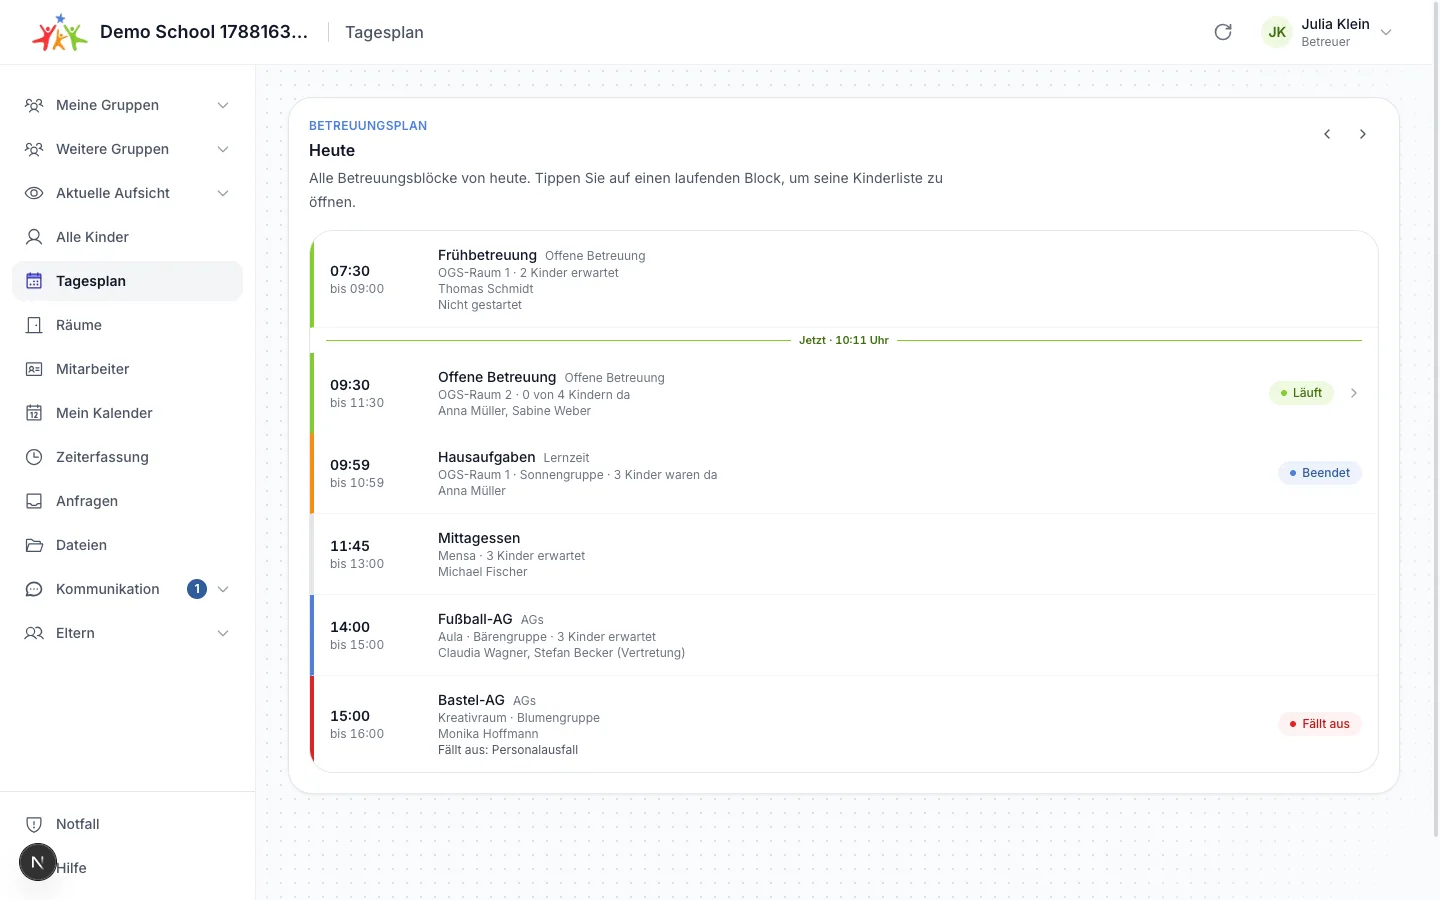
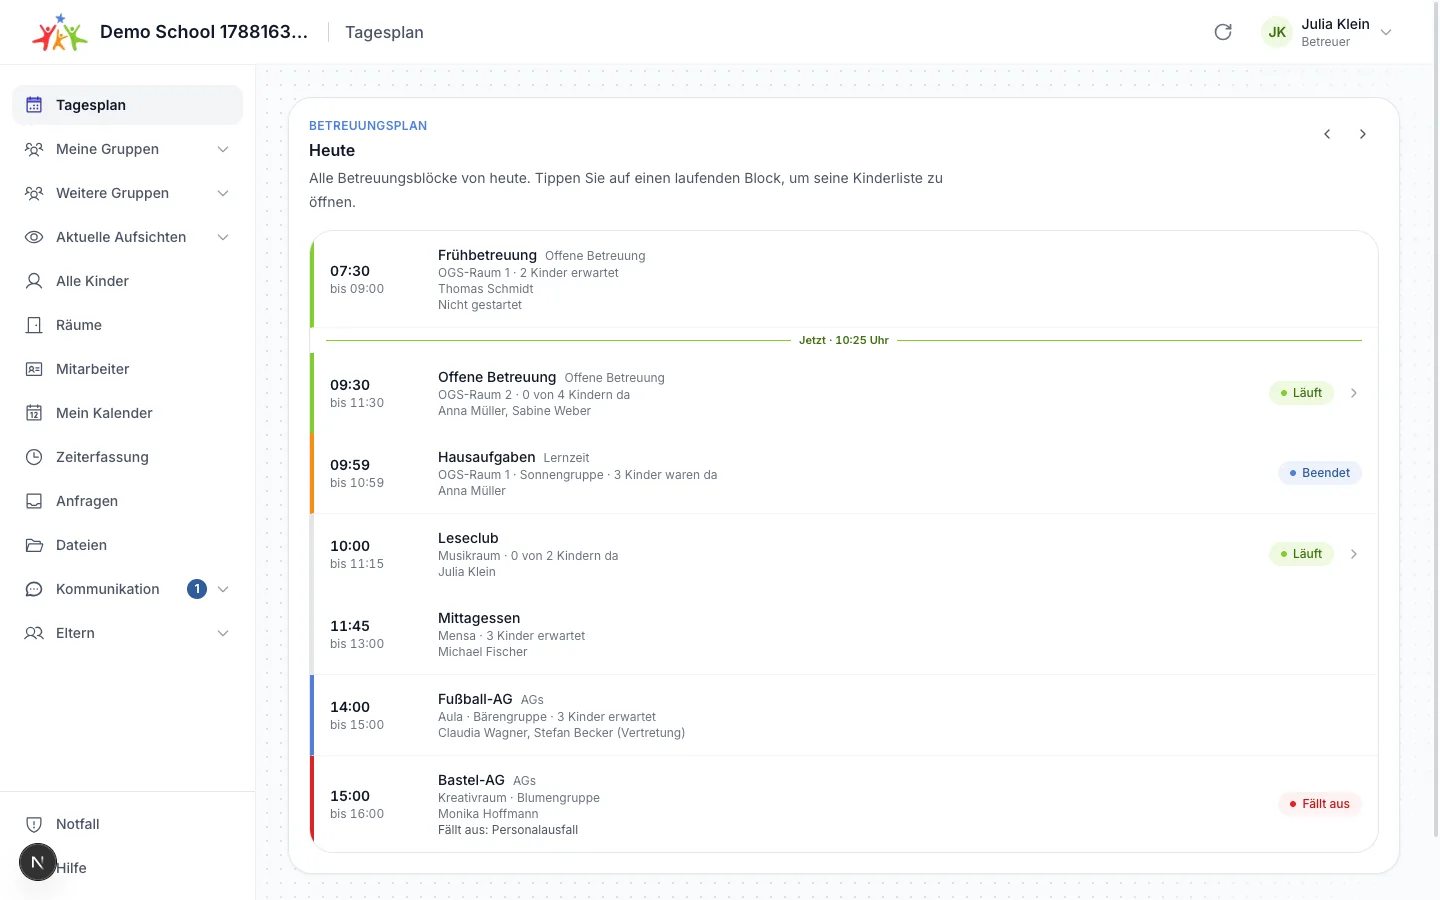
fix(tagesplan): als Startseite verankern statt als Menüpunkt in der Mitte
Der Tagesplan ist die Standardseite der Betreuungskräfte (#2383) — die
Navigation behandelt ihn jetzt auch so, statt ihn als weiteren Eintrag
in der Mitte zu führen:

- Seitenleiste: ganz oben, an der Stelle, an der Admins ihr Home haben.
- Mobile Navigation: erster Reiter der unteren Leiste statt eines
  Eintrags im Mehr-Menü (der Drawer-Eintrag entfällt dafür).
- Logo/Home-Link der Kopfzeile führt Betreuungskräfte auf den Tagesplan
  (gleiche Regel wie der Login-Redirect: detailed-Modus + aktivierter
  Betreuungsplan; Doppelrollen folgen wie beim Redirect dem
  Betreuer-Fluss, Admin-only behält /dashboard).

Nebenbefund aus der Verifikation: solange die Session lädt, fetcht
useSWRAuth nicht und isLoading bleibt false — die Seite zeigte dann
fälschlich den Leer-Zustand. Der Leer-Zustand erscheint jetzt nur noch
nach tatsächlich geladenen Daten, davor bleibt das Skeleton stehen.

Guide-Schritt und Screenshot entsprechend aktualisiert.

diff --git a/frontend/src/components/dashboard/mobile-bottom-nav.tsx b/frontend/src/components/dashboard/mobile-bottom-nav.tsx
@@ -169,6 +169,16 @@ const ADMIN_MAIN_ITEMS: NavItem[] = [
 
 const STAFF_MAIN_ITEMS: NavItem[] = [
   {
+    // Tagesplan (#2383): die Standardseite der Betreuungskräfte, deshalb der
+    // erste Tab. Gating (binary-Modus, timetable.enabled) unten in
+    // filteredMainItemsByMode.
+    href: "/betreuungsplan/tag",
+    label: "Tagesplan",
+    iconKey: "betreuungsplan",
+    concept: "carePlan",
+    alwaysShow: true,
+  },
+  {
     href: "/ogs-groups",
     label: "Gruppe",
     iconKey: "group",
@@ -335,17 +345,6 @@ const additionalNavItems: AdditionalNavItem[] = [
     iconKey: "group",
     concept: "groups",
     alwaysShow: true,
-  },
-  {
-    // Tages-Betreuungsplan (#2383): Einstieg der Betreuungskräfte in den
-    // laufenden Tag. Gating unten in filteredAdditionalItems (binary-Modus,
-    // timetable.enabled); Admins haben den vollen Betreuungsplan.
-    href: "/betreuungsplan/tag",
-    label: "Tagesplan",
-    iconKey: "betreuungsplan",
-    concept: "carePlan",
-    alwaysShow: true,
-    hideForAdmin: true,
   },
   {
     href: "/activities",
@@ -680,21 +679,19 @@ export function MobileBottomNav({ className = "" }: MobileBottomNavProps) {
         userHasEffectiveAdminScope) &&
       // Bei offener Betreuung gibt es keine "meine Gruppe" — der
       // gruppenbasierte Einstieg entfällt (#1544).
-      !(openCareGroupMode && item.href === "/ogs-groups"),
+      !(openCareGroupMode && item.href === "/ogs-groups") &&
+      // Tagesplan (#2383): nur im detaillierten Modus und nur an Schulen mit
+      // aktiviertem Betreuungsplan (Flag vom Tenant-Resolve, ohne config:read).
+      !(
+        item.href === "/betreuungsplan/tag" &&
+        (presenceMode === "binary" || !tagesplanEnabled)
+      ),
   );
 
   const filteredAdditionalItems = additionalNavItems.filter((item) => {
     // Anfragen (#2429): geteilte Regel für beide Reiter, siehe
     // change-request-access.
     if (item.href === "/anfragen") return canOpenRequestsPage(session);
-    // Tagesplan (#2383): nur im detaillierten Modus und nur an Schulen mit
-    // aktiviertem Betreuungsplan (Flag vom Tenant-Resolve, ohne config:read).
-    if (
-      item.href === "/betreuungsplan/tag" &&
-      (presenceMode === "binary" || !tagesplanEnabled)
-    ) {
-      return false;
-    }
     if (
       item.href === "/ogs-groups" &&
       !userIsCaregiver &&

diff --git a/frontend/src/lib/shell-auth-context.tsx b/frontend/src/lib/shell-auth-context.tsx
@@ -9,6 +9,8 @@ import { schoolAbsoluteUrl, schoolPath } from "~/lib/school-url";
 import { clearSessionCache, DELIBERATE_LOGOUT_KEY } from "~/lib/session-cache";
 import { createLogger } from "~/lib/logger";
 import { unsubscribePushSilently } from "~/lib/push-api";
+import { isCaregiver } from "~/lib/auth-utils";
+import { usePresenceMode, useTimetableEnabled } from "~/lib/tenant-context";
 
 const logger = createLogger({ component: "ShellAuthContext" });
 
@@ -58,6 +60,15 @@ export function TeacherShellProvider({
 }) {
   const { data: session, status: sessionStatus } = useSession();
   const { profile } = useProfile();
+  const presenceMode = usePresenceMode();
+  const timetableEnabled = useTimetableEnabled();
+  // Home der Betreuungskräfte ist der Tagesplan (#2383) — dieselbe Regel wie
+  // der Login-Redirect. Admins (und Schulen ohne Betreuungsplan bzw. im
+  // binären Modus) behalten /dashboard als Logo-Ziel.
+  const homeUrl =
+    isCaregiver(session) && presenceMode !== "binary" && timetableEnabled
+      ? "/betreuungsplan/tag"
+      : "/dashboard";
 
   const value = useMemo<ShellAuthContextType>(() => {
     const user: ShellUser | null = session?.user
@@ -118,10 +129,10 @@ export function TeacherShellProvider({
         window.location.href = "/";
       },
       mode: "teacher" as const,
-      homeUrl: "/dashboard",
+      homeUrl,
       profileUrl: "/profile",
     };
-  }, [session, sessionStatus, profile]);
+  }, [session, sessionStatus, profile, homeUrl]);
 
   return (
     <ShellAuthContext.Provider value={value}>

diff --git a/frontend/src/components/dashboard/sidebar.tsx b/frontend/src/components/dashboard/sidebar.tsx
@@ -857,11 +857,12 @@ function SidebarContent({ className = "" }: SidebarProps) {
   );
 
   // Determine which flat items come before / after the accordion insertion points
-  // Order: Home, groups, supervisions, search, activities, rooms, staff,
-  // substitutions, database, coming soon, bottom pinned.
+  // Order: Home, Tagesplan, groups, supervisions, search, activities, rooms,
+  // staff, substitutions, database, coming soon, bottom pinned.
   const beforeAccordionItems = mainNavItems.filter(
     (item) =>
       item.href === "/dashboard" ||
+      item.href === "/betreuungsplan/tag" ||
       (item.href === "/students/search" && !item.comingSoon),
   );
 
@@ -870,6 +871,7 @@ function SidebarContent({ className = "" }: SidebarProps) {
     (item) =>
       !item.comingSoon &&
       item.href !== "/dashboard" &&
+      item.href !== "/betreuungsplan/tag" &&
       item.href !== "/students/search" &&
       item.href !== "/substitutions",
   );
@@ -1172,6 +1174,12 @@ function SidebarContent({ className = "" }: SidebarProps) {
           {/* Home (admin only) */}
           {beforeAccordionItems
             .filter((item) => item.href === "/dashboard")
+            .map(renderNavItem)}
+
+          {/* Tagesplan (#2383): die Standardseite der Betreuungskräfte —
+              ganz oben, wie Home bei Admins. */}
+          {beforeAccordionItems
+            .filter((item) => item.href === "/betreuungsplan/tag")
             .map(renderNavItem)}
 
           {/* Group navigation (tenant staff/admin; hidden in open-care mode). */}

diff --git a/frontend/src/components/help/guide-data.ts b/frontend/src/components/help/guide-data.ts
@@ -847,7 +847,7 @@ export const appChapters: readonly GuideChapter[] = [
         summary:
           "Der Einstieg in den Betreuungstag: alle Betreuungsblöcke von heute in zeitlicher Reihenfolge – vergangene, laufende und kommende. Von hier aus öffnen Sie mit einem Tipp die Kinderliste des laufenden Blocks.",
         steps: [
-          "Nach dem Anmelden landen Betreuungskräfte direkt auf dem Tagesplan. Später erreichen Sie ihn über `Tagesplan` in der Seitenleiste.",
+          "Nach dem Anmelden landen Betreuungskräfte direkt auf dem Tagesplan. Er ist Ihre Startseite: `Tagesplan` steht ganz oben in der Seitenleiste, am Handy ist es der erste Reiter unten. Auch ein Tipp auf das Schul-Logo führt hierher.",
           "Jeder Block zeigt Zeit, Namen, Raum, Zielgruppe und das eingeteilte Personal. Die Farbe am Rand ist die Farbe aus der Planung.",
           "Die grüne Linie `Jetzt` markiert die aktuelle Uhrzeit. Laufende Blöcke tragen das Etikett `Läuft`.",
           "Einen laufenden Block antippen: Sie landen in seiner Kinderliste in `Aktuelle Aufsicht` und können dort Kinder an-, ab- und ummelden.",

diff --git a/frontend/src/lib/shell-auth-context.test.tsx b/frontend/src/lib/shell-auth-context.test.tsx
@@ -85,8 +85,27 @@ describe("TeacherShellProvider", () => {
     expect(result.current.status).toBe("authenticated");
     expect(result.current.isSessionExpired).toBe(false);
     expect(result.current.mode).toBe("teacher");
-    expect(result.current.homeUrl).toBe("/dashboard");
+    // Betreuungskräfte (auch mit Doppelrolle) haben den Tagesplan als Home
+    // (#2383) — dieselbe Priorität wie der Login-Redirect.
+    expect(result.current.homeUrl).toBe("/betreuungsplan/tag");
     expect(result.current.profileUrl).toBe("/profile");
+  });
+
+  it("keeps /dashboard as home for admin-only accounts (#2383)", () => {
+    mockUseSession.mockReturnValue({
+      data: {
+        user: {
+          name: "Admin Only",
+          email: "admin@example.com",
+          roles: ["admin"],
+        },
+      },
+      status: "authenticated",
+    });
+
+    const { result } = renderHook(() => useShellAuth(), { wrapper });
+
+    expect(result.current.homeUrl).toBe("/dashboard");
   });
 
   it("provides profile data from context", () => {

diff --git a/frontend/src/components/timetable/tagesplan-view.tsx b/frontend/src/components/timetable/tagesplan-view.tsx
@@ -445,7 +445,13 @@ export function TagesplanView() {
           </div>
         }
       >
-        {isLoading ? <Skeleton className="h-64 w-full" /> : null}
+        {/* Solange die Session lädt, fetcht useSWRAuth noch nicht — dann ist
+            isLoading false UND instances leer. Ohne diese Bedingung würde
+            kurz "keine Betreuung geplant" aufblitzen, obwohl nie geladen
+            wurde. */}
+        {isLoading || (instances == null && !listError) ? (
+          <Skeleton className="h-64 w-full" />
+        ) : null}
 
         {!isLoading && forbidden ? (
           <EmptyState
@@ -471,7 +477,10 @@ export function TagesplanView() {
           </div>
         ) : null}
 
-        {!isLoading && !listError && sorted.length === 0 ? (
+        {!isLoading &&
+        !listError &&
+        instances != null &&
+        sorted.length === 0 ? (
           <EmptyState
             title={
               isToday
